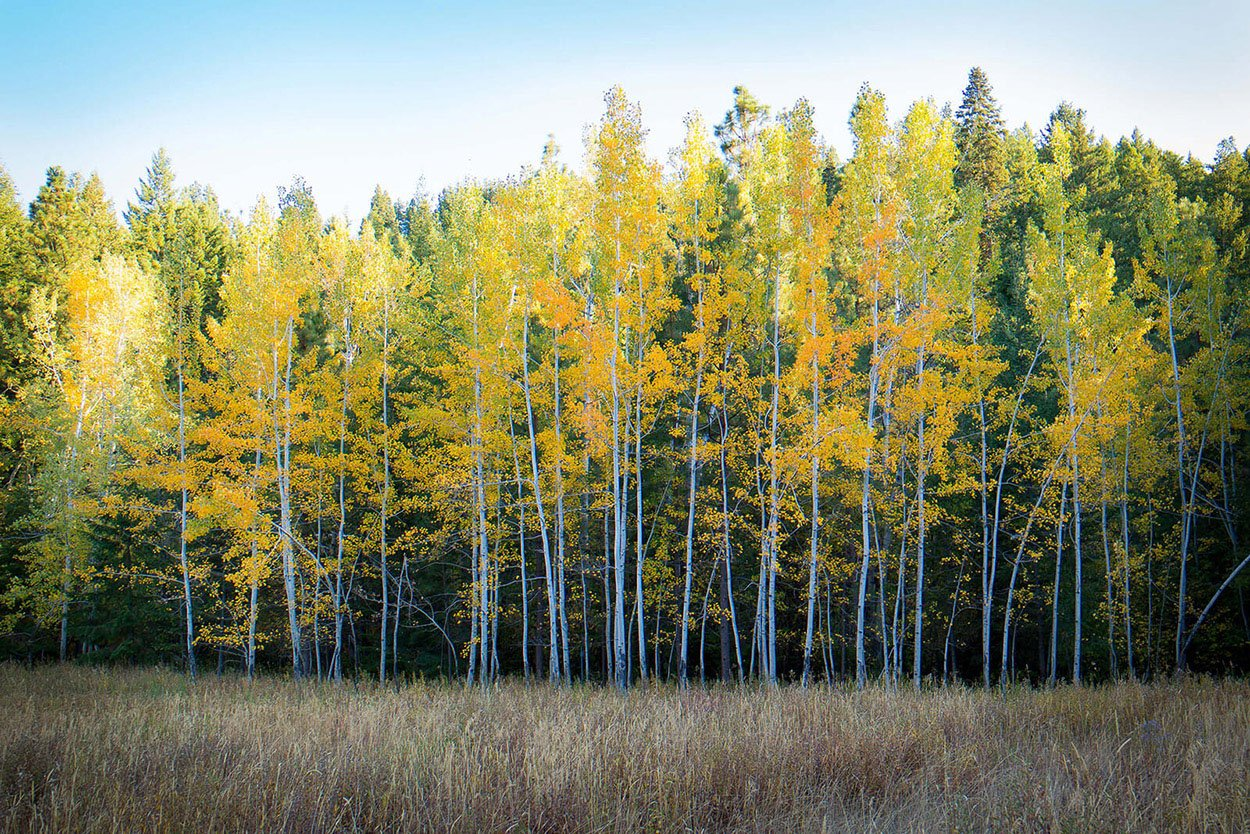
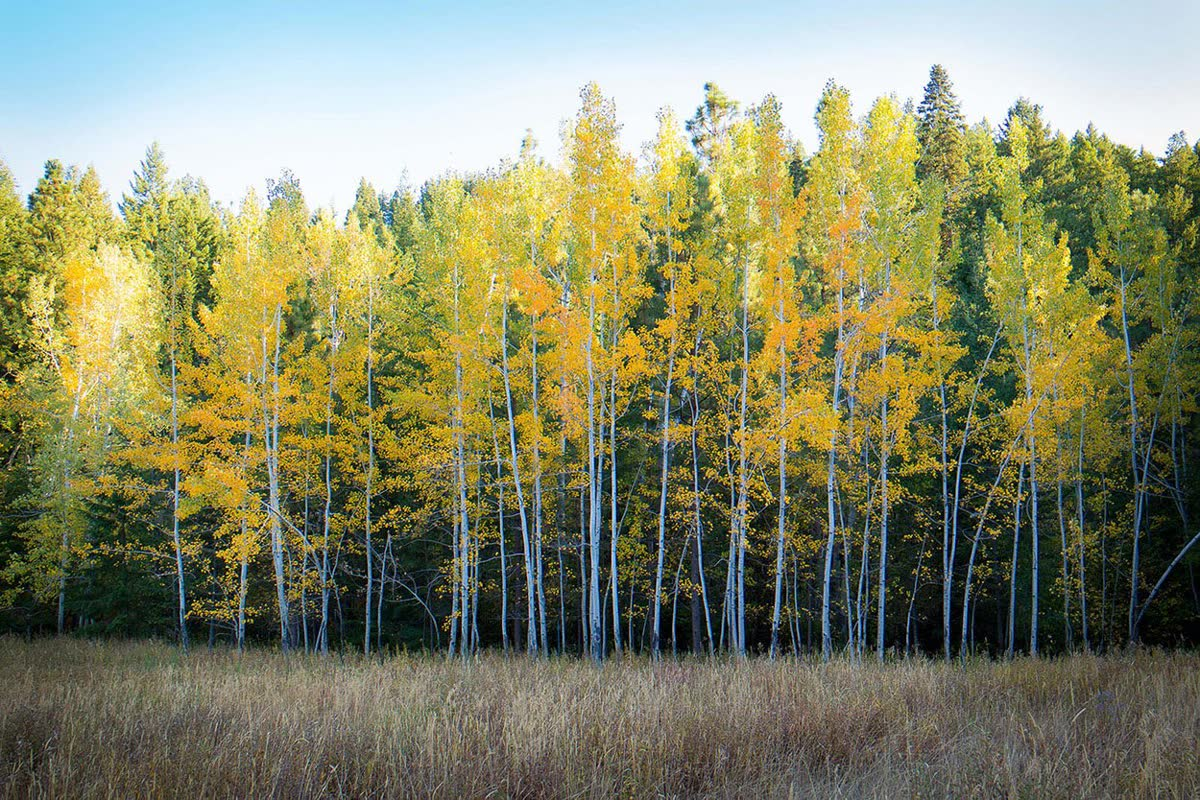
feat: optimize

diff --git a/scripts/site.js b/scripts/site.js
@@ -7,6 +7,29 @@
     return pathname;
   }
 
+  function syncSectionMedia() {
+    var sections = document.querySelectorAll(
+      "[data-home-section], [data-who-section], [data-what-section], [data-contact-section], [data-practice-section], [data-profile-section]"
+    );
+    sections.forEach(function (section) {
+      var visible = !section.hidden;
+      section.querySelectorAll("img[src], img[data-src]").forEach(function (img) {
+        if (img.classList.contains("wa-parallax-bg__img")) return;
+        var src = img.getAttribute("src");
+        var stored = img.getAttribute("data-src");
+        if (visible) {
+          if (!src && stored) {
+            img.setAttribute("src", stored);
+            img.removeAttribute("data-src");
+          }
+        } else if (src) {
+          img.setAttribute("data-src", src);
+          img.removeAttribute("src");
+        }
+      });
+    });
+  }
+
   function applyRouteSections() {
     var path = normalizePath(window.location.pathname);
     var isHome = path === "/" || path === "/welcome";
@@ -60,6 +83,8 @@
         cmsSection.hidden = isHome || isWho || isWhat || isContact || !!activePractice || !!activeProfile;
       }
     });
+
+    syncSectionMedia();
   }
 
   applyRouteSections();
@@ -93,6 +118,8 @@
     bgImg.className = "wa-parallax-bg__img";
     bgImg.src = "assets/kingsbery-johnson/IMG_2427.jpeg";
     bgImg.alt = "";
+    bgImg.width = 1600;
+    bgImg.height = 1200;
     bgImg.setAttribute("fetchpriority", "high");
     bgImg.decoding = "async";
     parallaxBg.appendChild(bgImg);
@@ -101,6 +128,7 @@
 
   if (parallaxBg && !window.matchMedia("(prefers-reduced-motion: reduce)").matches) {
     var ticking = false;
+    var scrollEndTimer = null;
     function updateParallax() {
       var scrollY = window.scrollY || window.pageYOffset;
       var y = (scrollY * 0.07).toFixed(2);
@@ -108,6 +136,11 @@
       ticking = false;
     }
     function onScroll() {
+      parallaxBg.classList.add("is-scrolling");
+      if (scrollEndTimer) window.clearTimeout(scrollEndTimer);
+      scrollEndTimer = window.setTimeout(function () {
+        parallaxBg.classList.remove("is-scrolling");
+      }, 120);
       if (!ticking) {
         window.requestAnimationFrame(updateParallax);
         ticking = true;
@@ -116,4 +149,6 @@
     window.addEventListener("scroll", onScroll, { passive: true });
     updateParallax();
   }
+
+  window.addEventListener("popstate", applyRouteSections);
 })();

diff --git a/styles/sqs-integration.less b/styles/sqs-integration.less
@@ -36,8 +36,12 @@
   overflow: hidden;
   z-index: 0;
   background-color: var(--cream);
-  will-change: transform;
+  /* Avoid permanent GPU layer (will-change) — costly with large bg bitmaps */
   transform: translate3d(0, 0, 0);
+}
+
+.wa-parallax-bg.is-scrolling {
+  will-change: transform;
 }
 
 .wa-parallax-bg__img {
